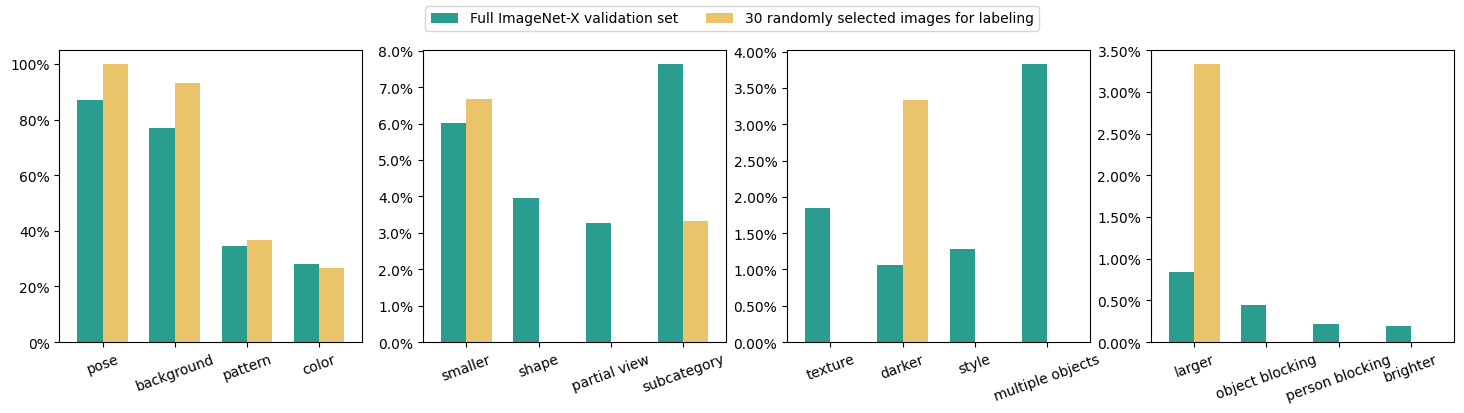
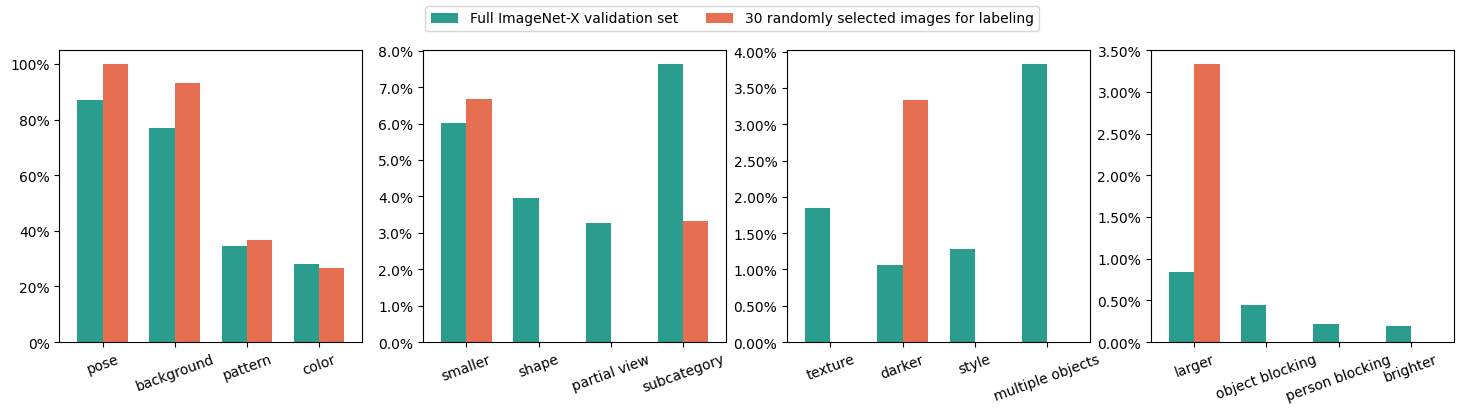
plots and start use meta

diff --git a/src/models/ResNet50_use_meta.py b/src/models/ResNet50_use_meta.py
@@ -1,0 +1,127 @@
+import torch
+from torch import nn
+import pytorch_lightning as pl
+import torchmetrics
+import seaborn as sns
+import matplotlib.pyplot as plt
+import wandb
+import numpy as np
+
+labels = {
+    4: ["background", "color", "pattern", "pose"],
+    16: [
+        "background",
+        "brighter",
+        "color",
+        "darker",
+        "larger",
+        "multiple_objects",
+        "object_blocking",
+        "partial_view",
+        "pattern",
+        "person_blocking",
+        "pose",
+        "shape",
+        "smaller",
+        "style",
+        "subcategory",
+        "texture",
+    ],
+}
+
+
+# Define the ResNet-50 model
+class ResNet(pl.LightningModule):
+    def __init__(self, args, normed_weights=[], num_classes=16):
+        super().__init__()
+        self.resnet50 = torch.hub.load(
+            "pytorch/vision:v0.9.0",
+            "resnet50",
+            weights="ResNet50_Weights.IMAGENET1K_V1",
+        )
+        # TODO Add dropout
+        #self.resnet50.fc = nn.Linear(int(2048), int(num_classes))
+        # self.resnet50.fc = nn.Linear(int(2048), int(16))
+        self.resnet50.fc = nn.Sequential(nn.Dropout(0.5), nn.Linear(int(2048), int(num_classes)))
+        
+        self.accuracy1 = torchmetrics.Accuracy(
+            task="multiclass", num_classes=num_classes
+        )
+        self.accuracy3 = torchmetrics.Accuracy(
+            task="multiclass", num_classes=num_classes, top_k=3
+        )
+        self.f1_score = torchmetrics.F1Score(task="multiclass", num_classes=num_classes, average="micro")
+        self.confusion_matrix = torchmetrics.ConfusionMatrix(
+            task="multiclass", num_classes=num_classes, normalize="true"
+        )
+        self.args = args
+        self.register_buffer
+        if self.args.weighted_loss:
+            self.normed_weights = normed_weights.to("cuda")
+
+        self.labels = labels[num_classes]
+
+    def forward(self, x):
+        return self.resnet50(x)
+
+    def training_step(self, batch, batch_idx):
+        x, y = batch
+        y_hat = self(x)
+        if self.args.weighted_loss:
+            loss = nn.CrossEntropyLoss(weight=self.normed_weights)(y_hat, y)
+        else:
+            loss = nn.CrossEntropyLoss()(y_hat, y)
+        self.log("train_loss", loss)
+        return loss
+
+    def validation_step(self, batch, batch_idx):
+        x, y = batch
+        y_hat = self(x)
+        if self.args.weighted_loss:
+            loss = nn.CrossEntropyLoss(weight=self.normed_weights)(y_hat, y)
+        else:
+            loss = nn.CrossEntropyLoss()(y_hat, y)
+
+        self.log("val_loss", loss)
+        self.log("val_acc1", self.accuracy1(y_hat, y))
+        self.log("val_acc3", self.accuracy3(y_hat, y))
+        self.log("val_f1", self.f1_score(y_hat, y))
+
+        self.confusion_matrix.update(preds=y_hat, target=y)
+
+    def on_validation_epoch_end(self):
+        confmat = self.confusion_matrix.compute().cpu()  # .numpy()
+
+        # log to wandb
+        f, ax = plt.subplots(figsize=(15, 10))
+        sns.heatmap(
+            confmat, ax=ax, annot=True, xticklabels=self.labels, yticklabels=self.labels
+        )
+        ax.set_xlabel("Predicted labels", size=15)
+        ax.set_ylabel("True labels", size=15)
+        ax.set_title(f"Confusion Matrix with sum {torch.sum(confmat)}", size=15)
+        self.logger.experiment.log({"plot": wandb.Image(f)})
+
+        self.confusion_matrix.reset()
+
+    def configure_optimizers(self):
+        # Choose optimizer from dict
+        dictOptimizer = {
+            "adam": torch.optim.Adam(
+                self.parameters(), lr=self.args.lr, weight_decay=self.args.weight_decay
+            ),
+            "sgd": torch.optim.SGD(
+                self.parameters(),
+                lr=self.args.lr,
+                weight_decay=self.args.weight_decay,
+                momentum=self.args.momentum,
+            ),
+        }
+        optimizer = dictOptimizer[self.args.optimizer]
+        # optimizer = torch.optim.Adam(
+        #    self.parameters(), lr=self.args.lr, weight_decay=self.args.weight_decay
+        # )
+        scheduler = torch.optim.lr_scheduler.CosineAnnealingLR(
+            optimizer, T_max=self.args.epochs
+        )  # StepLR -> cosine
+        return [optimizer], [scheduler]

diff --git a/src/visualization/all_distribution.py b/src/visualization/all_distribution.py
@@ -1,0 +1,38 @@
+import matplotlib.ticker as mtick
+import pandas as pd
+import matplotlib.pyplot as plt
+
+
+path = '../../data/annotations/'
+dftrain = pd.read_json(path + 'imagenet_x_train_top_factor.jsonl', lines=True)
+dftrain_multi = pd.read_json(path + 'imagenet_x_train_multi_factor.jsonl', lines=True)
+dfval = pd.read_json(path + 'imagenet_x_val_top_factor.jsonl', lines=True)
+dfval_multi = pd.read_json(path + 'imagenet_x_val_multi_factor.jsonl', lines=True)
+
+
+#Inspired by plots.factor_distribution_comparison()
+dftrain_ = (dftrain.iloc[:,2:18]*100/len(dftrain)).sum()
+dfval_ = (dfval.iloc[:,2:18]*100/len(dfval)).sum()
+dftrain_multi_ = (dftrain_multi.iloc[:,2:18]*100/len(dftrain_multi)).sum()
+dfval_multi_ = (dfval_multi.iloc[:,2:18]*100/len(dfval_multi)).sum()
+dfko = pd.DataFrame.from_dict({ 'our multi val': dftrain_multi_, 'our multi train': dfval_multi_, 'our val': dftrain_, 'our train': dfval_})
+
+colors = ["#264653", "#2a9d8f", "#e9c46a", "#f4a261", "#e76f51"]
+
+fig, axs = plt.subplots(1,4,figsize=(18, 4))
+
+cate =  [['pose', 'background', 'pattern', 'color'], [ 'smaller', 'shape', 'partial view', 'subcategory'], ['texture', 'darker', 'style', 'multiple objects'], ['larger', 'object blocking', 'person blocking', 'brighter'] ]
+
+for i,ax in enumerate(axs):
+    print(cate[i])
+    dfko.index = dfko.index.str.replace('_', ' ')
+    ax = dfko.loc[cate[i]].plot.bar(ax=ax,color=[colors[0],colors[1], colors[2], colors[3]],width=0.7,rot=20,legend=False)
+    ax.yaxis.set_major_formatter(mtick.PercentFormatter(), )
+    
+fig.legend(['Training set multifactor','Validation set multifactor', 'Traning set top factor', 'Validation set top factor'], loc=9, ncol = 2)
+
+
+#ax[0].yaxis.set_major_formatter(mtick.PercentFormatter())
+plt.gcf().subplots_adjust(bottom=0.15)
+plt.savefig('../../figures/all_distribution.png', bbox_inches= 'tight')
+plt.show()

diff --git a/src/visualization/correlation_of_multilabels.py b/src/visualization/correlation_of_multilabels.py
@@ -1,0 +1,26 @@
+import matplotlib.pyplot as plt
+import numpy as np
+import pandas as pd
+import seaborn as sns
+
+
+
+path = '../../data/annotations/'
+dftrain_multi = pd.read_json(path + 'imagenet_x_train_multi_factor.jsonl', lines=True)
+dfval_multi = pd.read_json(path + 'imagenet_x_val_multi_factor.jsonl', lines=True)
+dftrain_multi_ = dftrain_multi.iloc[:,2:18]
+dfval_multi_ = dfval_multi.iloc[:,2:18]
+df_all = pd.concat([dftrain_multi_, dfval_multi_])
+df_all.columns = df_all.columns.str.replace('_', ' ')
+
+
+Corr = df_all.corr()
+
+mask1 = Corr.abs() < 0.1
+mask2 = np.triu(np.ones_like(Corr, dtype=bool))
+mask = mask1 | mask2
+cmap = sns.diverging_palette(230, 20, as_cmap=True)
+sns.heatmap(Corr, annot=False, fmt='.2f', cmap=cmap, vmin=0.0, vmax=0.4, center=0, square=False, linewidths=.5, cbar_kws={"shrink": .5}, mask=mask2)
+plt.tight_layout()
+plt.xticks(rotation=90) 
+plt.savefig('../../figures/correlation_multilabels.png', bbox_inches= 'tight')

diff --git a/src/visualization/sample_validation_distribution.py b/src/visualization/sample_validation_distribution.py
@@ -19,7 +19,7 @@ cate =  [['pose', 'background', 'pattern', 'color'], [ 'smaller', 'shape', 'part
 for i,ax in enumerate(axs):
     print(cate[i])
     dfko.index = dfko.index.str.replace('_', ' ')
-    ax = dfko.loc[cate[i]].plot.bar(ax=ax,color=[colors[1],colors[2]],width=0.7,rot=20,legend=False)
+    ax = dfko.loc[cate[i]].plot.bar(ax=ax,color=[colors[1],colors[4]],width=0.7,rot=20,legend=False)
     ax.yaxis.set_major_formatter(mtick.PercentFormatter(), )
     
 fig.legend(['Full ImageNet-X validation set','30 randomly selected images for labeling'], loc=9, ncol = 2)
